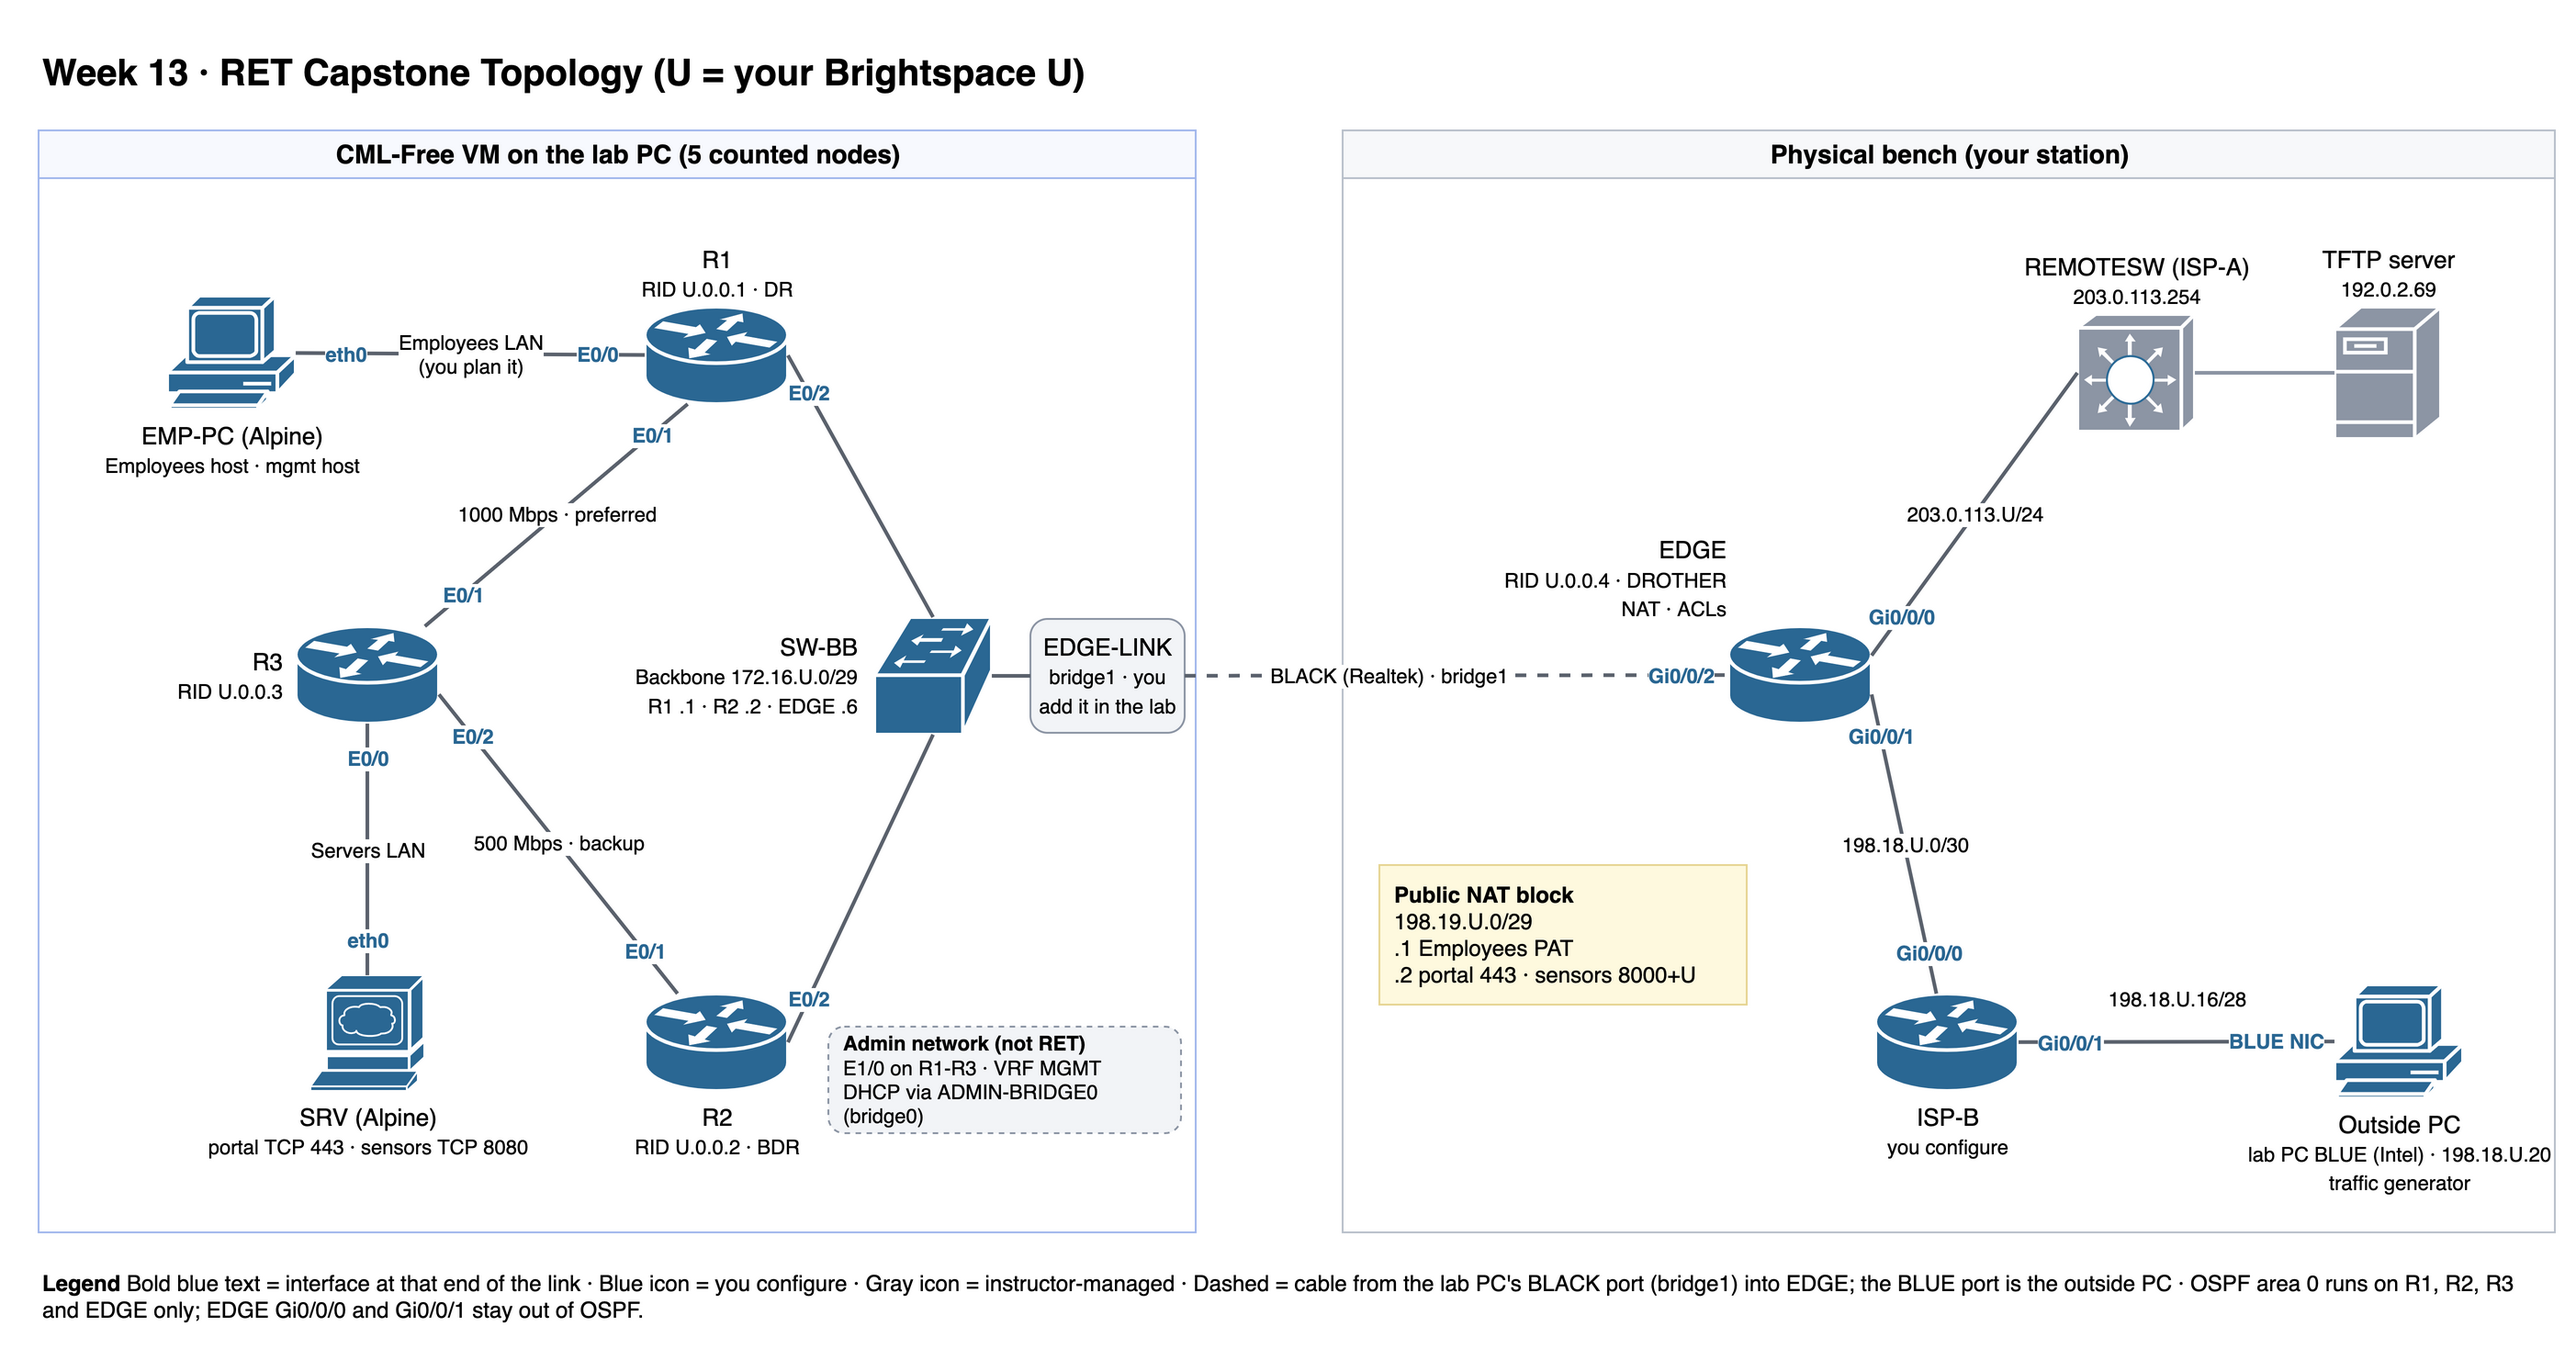
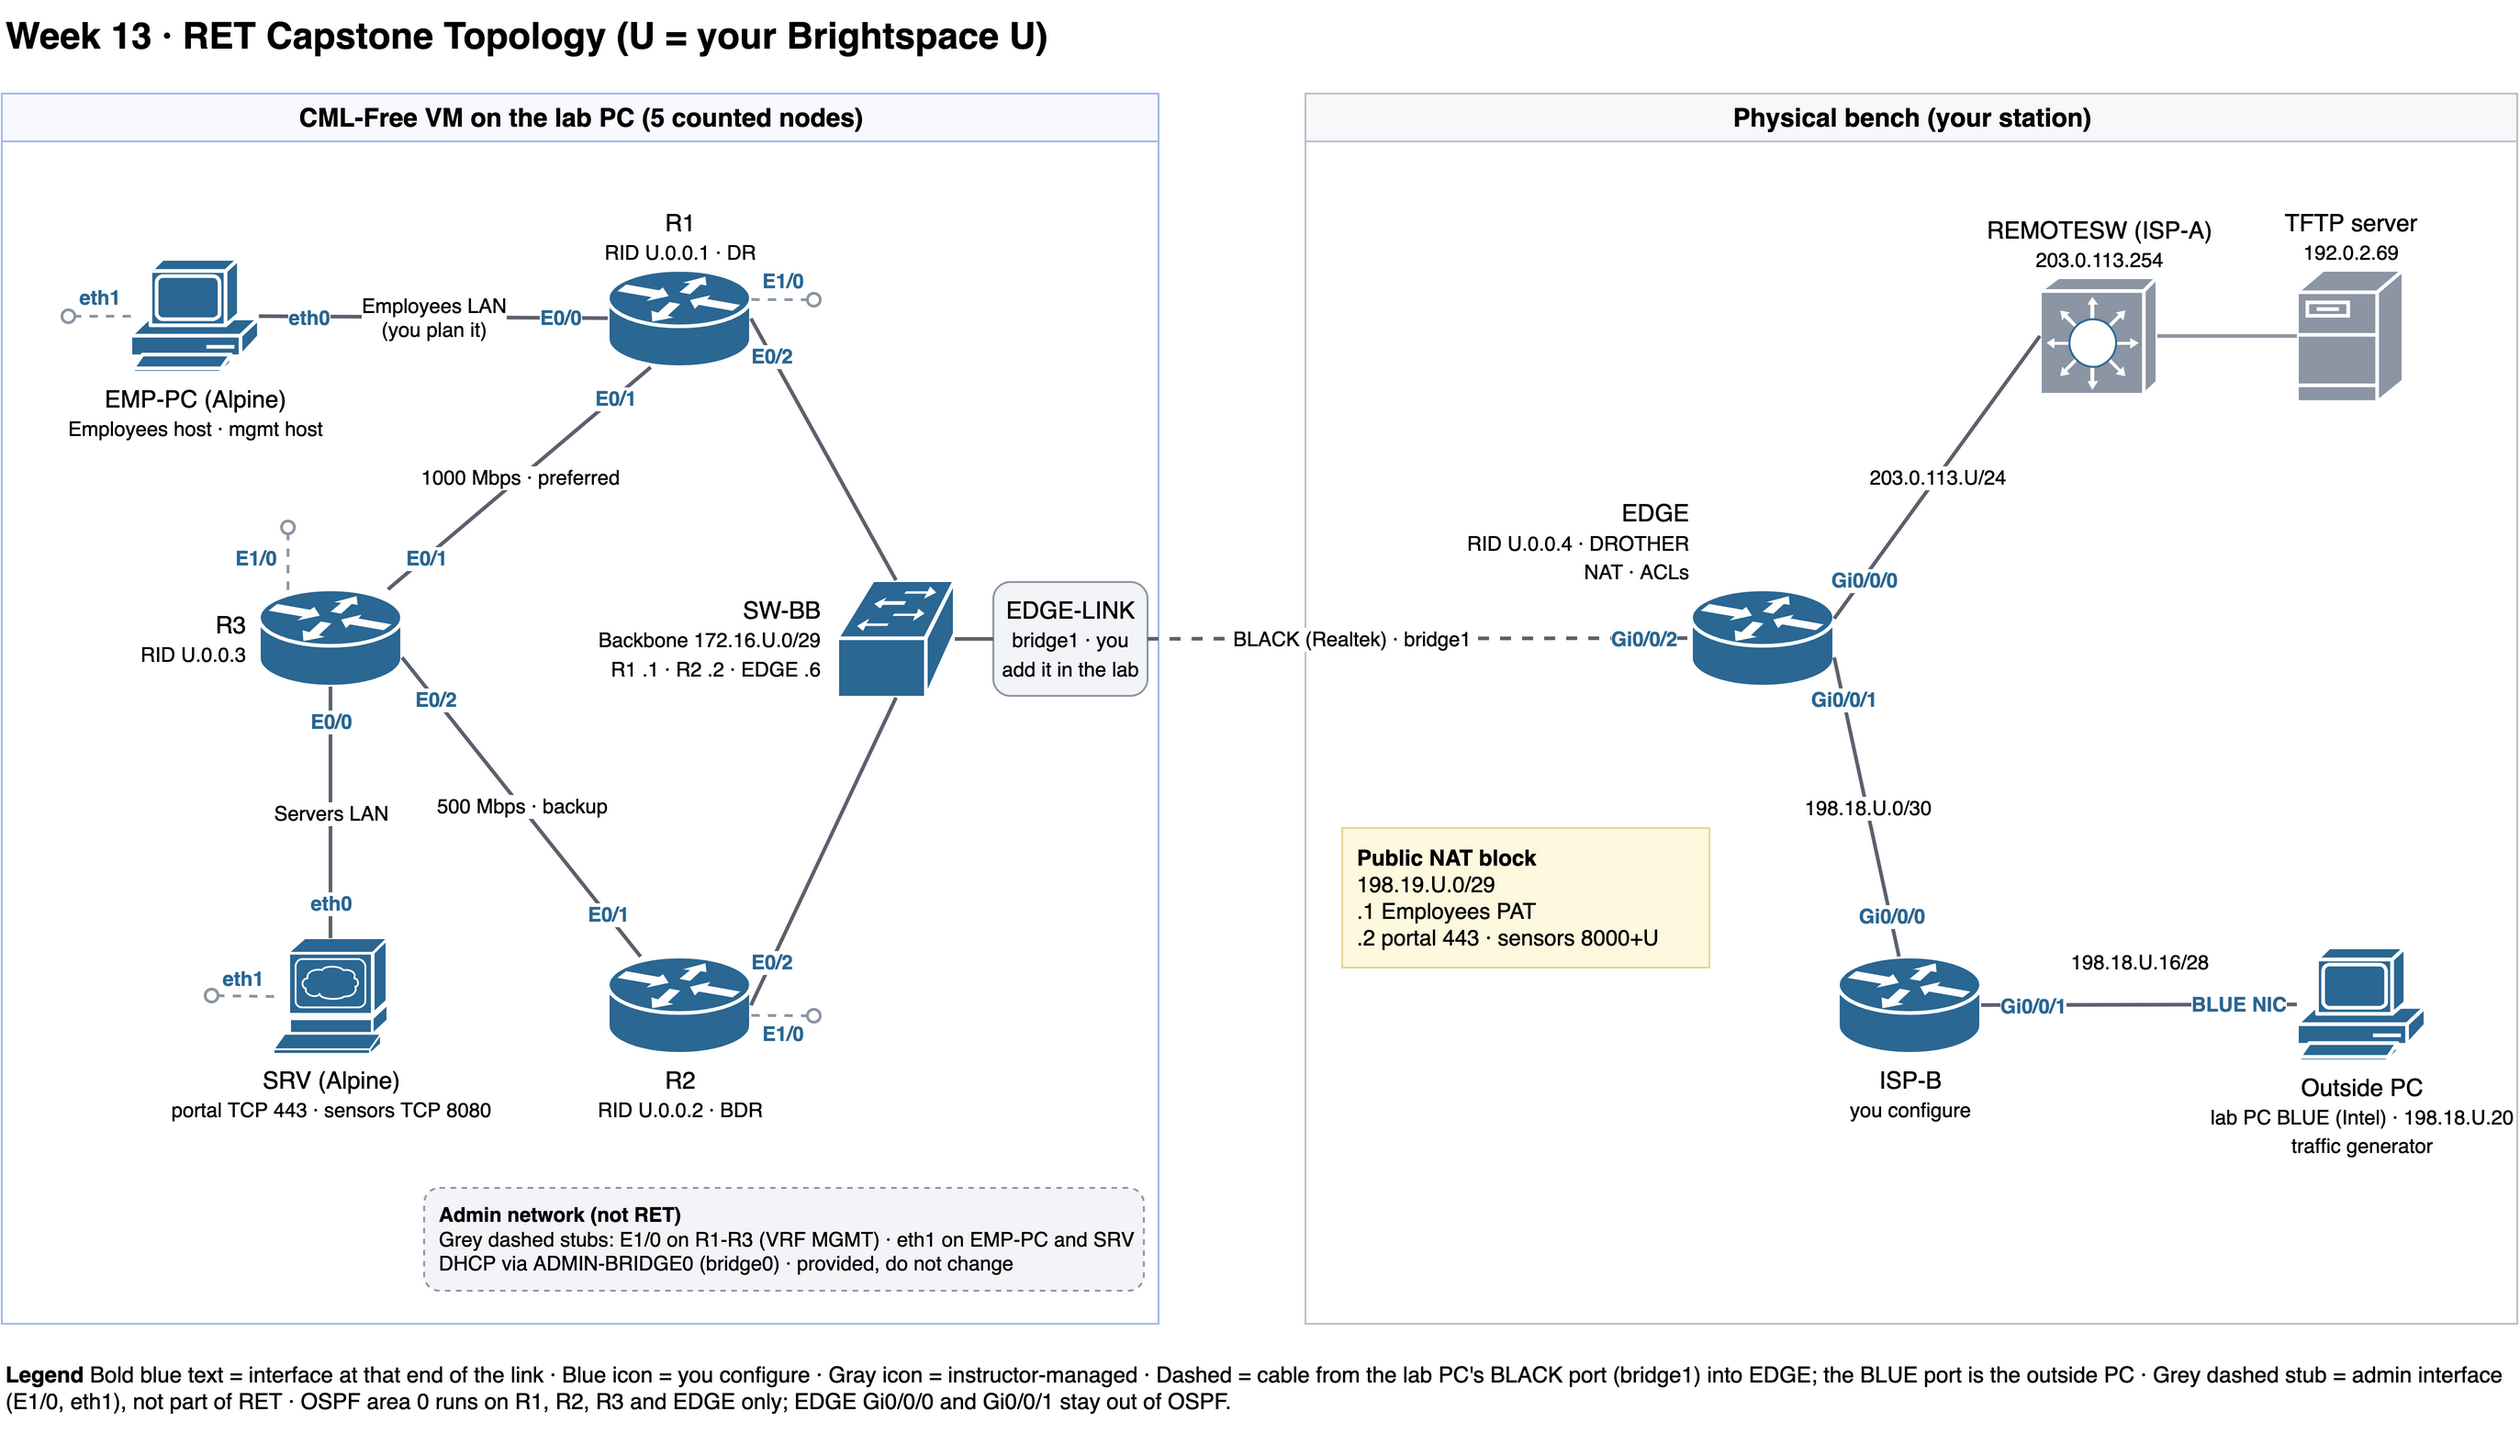
Release(w13): bridge guide in resources, admin stubs on topology

diff --git a/26f-cst8371/resources/l13-bridge-guide.md b/26f-cst8371/resources/l13-bridge-guide.md
@@ -1,0 +1,111 @@
+# Lab 13 - Connect CML to the Physical EDGE (bridge1)
+
+```plaintext
+Environment: lab PC (Windows, VMware Workstation Pro) running the CML-Free VM; physical EDGE router on your bench.
+```
+
+The lab PC has two bench network ports, and each one has a fixed job:
+
+| Port | Windows adapter | Job in this capstone |
+|---|---|---|
+| **BLACK** | Realtek | Bridged into CML as `bridge1`; cabled to EDGE `Gi0/0/2` (this guide) |
+| **BLUE** | Intel | The outside PC; cabled to ISP-B `Gi0/0/1` (Phase 4, P4-R9). **Never bridge it into CML** |
+
+Your CML-Free VM has **one** network adapter. CML uses it for its web interface, and your lab connects to it through the `ADMIN-BRIDGE0` connector (the admin network on `E1/0`). To reach the physical EDGE, the VM needs a **second** adapter, bridged to the lab PC's Ethernet port that is cabled to EDGE. Inside CML, that adapter becomes a new bridge, `bridge1`, and an External Connector in your lab uses it.
+
+**When:** at the lab station, after Phases 1 to 3 and before C00. You do not need any of this at home.
+**Time:** about 20 minutes the first time.
+
+![Lab 13 bridge: from the CML lab to EDGE, layer by layer](../images/l13-bridge-topology.png)
+
+Read the diagram from the top down. The green path is what you build in this guide; each green box carries the number of its step. The grey dashed path is the CML web interface's own network: leave it alone.
+
+> **Do not touch the first adapter.** It carries the CML web interface and `bridge0`. Every step below adds something new; nothing changes what already works.
+
+---
+
+## Before you start
+
+- [ ] Your RET Network lab (`13-RET-capstone.yaml`) is imported in this CML VM and **stopped**.
+- [ ] The cable from the lab PC's **BLACK** port is plugged into EDGE `Gi0/0/2`.
+- [ ] You know the Windows name of the BLACK port's adapter: the **Realtek** one. In PowerShell, `Get-NetAdapter | Format-Table Name, InterfaceDescription, Status` lists it (for example `Ethernet 2`, *Realtek PCIe GbE Family Controller*). Write the name in your lab book. To be sure, unplug the BLACK cable and check that this adapter's status changes to `Disconnected`, then plug it back in.
+- [ ] You can open VMware Workstation's **Virtual Network Editor** with **Change Settings** (administrator). If you cannot, stop and call your instructor.
+
+---
+
+## Step 1 - Create a bridged VMware network for the BLACK port
+
+1. Shut down the CML VM (CML web interface: **Tools > System Administration > Shut down**, or power off from VMware once CML has stopped).
+2. In VMware Workstation: **Edit > Virtual Network Editor > Change Settings**.
+3. Note what `VMnet0` is set to and **leave it alone**.
+4. **Add Network...**, choose `VMnet2` (or the first free VMnet number).
+5. Select the new VMnet, choose **Bridged (connect VMs directly to the external network)**, and set **Bridged to** the **Realtek** adapter. Never choose "Automatic", and never the Intel adapter.
+6. **Apply**, then **OK**.
+
+> If the editor only offers Host-only for the new VMnet, or if no adapter appears in the list, check that **VMware Bridge Protocol** is ticked in the Realtek adapter's Windows properties. If it still fails, call your instructor.
+
+## Step 2 - Give the CML VM a second adapter
+
+1. **VM > Settings > Add... > Network Adapter > Finish**. It appears as **Network Adapter 2**.
+2. Select it and choose **Custom: Specific virtual network**, then `VMnet2`.
+3. Tick **Connected** and **Connect at power on**. **OK**.
+4. Power the VM on and wait until the CML web interface loads again.
+
+**Check:** the CML web interface opens exactly as before. If it does not, you changed the first adapter: undo it.
+
+## Step 3 - Create `bridge1` inside the CML VM
+
+1. Open Cockpit: `https://<CML address>:9090`, and sign in with the CML system administrator account (the one you created when you installed CML).
+2. Go to **Networking**. You see the first interface (in `bridge0`) and a new interface with no bridge (often `ens224` or `ens256`). Write its name in your lab book.
+3. **Add bridge**. Name: `bridge1`. Port: tick the **new** interface only.
+4. Open `bridge1` and set **IPv4: Disabled** and **IPv6: Ignore**. The bridge is a wire; it needs no address.
+5. Check that both the new interface and `bridge1` are **active**. Do not edit `bridge0`.
+6. Restart CML so it registers the bridge: in Cockpit go to **Cisco Modeling Labs > Restart Services** (or reboot the VM).
+
+## Step 4 - Label the bridge in CML
+
+1. CML web interface: **Tools > System Administration > External Connectors**.
+2. Find the row with Device Name `bridge1`. Click its label and change it to `EDGE-LINK`. **Save**.
+3. Leave **Protected** on. It lets IPv4 and ARP through, which is everything OSPF, NAT and ping need.
+
+## Step 5 - Add the connector to your lab
+
+1. Open the RET Network lab (stopped).
+2. Drag an **External Connector** onto the canvas, next to `SW-BB`. Name it `EDGE-LINK`.
+3. In its **Config** tab choose `EDGE-LINK`, **not** "System Bridge" or "NAT".
+4. Link it to a free port on `SW-BB`.
+5. Do **not** change `ADMIN-BRIDGE0`: it stays on System Bridge.
+6. Start the lab.
+
+External Connectors and unmanaged switches do not count toward the 5-node limit.
+
+## Step 6 - Prove it (this is C00 in the brief)
+
+Give R1 and R2 their backbone addresses (`172.16.U.1/29` and `172.16.U.2/29` on `E0/2`) if they do not have them yet, then:
+
+| # | Where | Command | Pass |
+|---|---|---|---|
+| 1 | R1 | `ping 172.16.U.6 repeat 5` | `!!!!!` (repeat once if the first dot is ARP) |
+| 2 | R1 | `show ip arp 172.16.U.6` | EDGE's MAC address on `Ethernet0/2` |
+| 3 | R2 | `ping 172.16.U.6 repeat 5` | `!!!!!` |
+| 4 | Lab PC browser | CML web interface | Still loads |
+
+All four pass: go on to Phase 4. Any fails: use the table below, then call your instructor. A bench or bridge fault found here is handled as an infrastructure fault (see "If you cannot connect to EDGE" in the brief).
+
+---
+
+## When it fails
+
+| Symptom | Look at |
+|---|---|
+| CML web interface gone after Step 1 or 2 | You changed `VMnet0` or the first adapter. Put them back |
+| `bridge1` not in the External Connectors list | CML not restarted after Step 3, or `bridge1` not active in Cockpit |
+| The connector shows the web interface's network | The connector is set to "System Bridge". Choose `EDGE-LINK` |
+| R1 ping to EDGE fails, no ARP entry | Network Adapter 2 not Connected; VMnet2 bridged to the wrong Windows adapter; cable in the wrong EDGE port; EDGE `Gi0/0/2` shut |
+| Ping works, OSPF stuck later in INIT or EXSTART | Timers and MTU (Phase 4 troubleshooting), not the bridge |
+| VMware: "no un-bridged host network adapters" | Automatic bridging has claimed every adapter. Bind VMnet2 to one specific adapter |
+
+## Leaving the station
+
+- Stop your lab and **download** it (your YAML is your work).
+- Leave `bridge1`, VMnet2 and Network Adapter 2 in place unless your instructor says otherwise: the next student on this PC needs the same setup.

diff --git a/26f-cst8371/labs/l13-ret-capstone.md b/26f-cst8371/labs/l13-ret-capstone.md
@@ -42,7 +42,7 @@ Phases 1 to 3 need only CML-Free, so you can do them at home. Phases 4 and 5 nee
    - In CML, extract the configurations of all nodes (select the nodes, then **Extract configurations**), so the routers' running configurations are stored in the lab.
    - EMP-PC and SRV forget anything typed at the shell when they restart. Put their address and default route in each node's **Config** tab (`node.cfg`); the file has a marked place for them.
    - **Download** the lab and keep the YAML file, for example as `13-RET-capstone-<username>.yaml`.
-4. **In the lab:** import your YAML into the lab PC's CML, start it, and check that your configurations are there. Then follow `13-RET-capstone-bridge-guide.md` (C00) and continue with Phase 4.
+4. **In the lab:** import your YAML into the lab PC's CML, start it, and check that your configurations are there. Then follow the [bridge guide](../resources/l13-bridge-guide.md) (C00) and continue with Phase 4.
 
 ### The admin network (E1/0)
 
@@ -386,7 +386,7 @@ The bridge is the riskiest part of this capstone. Prove it in your first 20 minu
   - nothing else yet: no routes, no OSPF, no NAT, no ACLs (those are Phases 4 and 5).
 - [ ] **C00-R2** ISP-B base, on the console: hostname `ISP-B`, the same user and enable secret. Its addressing and route come in Phase 4 (P4-R8).
 - [ ] Your lab file is imported into the lab PC's CML and your Phase 1 to 3 configurations are present.
-- [ ] You followed `13-RET-capstone-bridge-guide.md`: VMnet2, Network Adapter 2, `bridge1`, the `EDGE-LINK` label, and the `EDGE-LINK` External Connector linked to `SW-BB`.
+- [ ] You followed the [bridge guide](../resources/l13-bridge-guide.md): VMnet2, Network Adapter 2, `bridge1`, the `EDGE-LINK` label, and the `EDGE-LINK` External Connector linked to `SW-BB`.
 - [ ] The lab PC's **BLACK** (Realtek) port is cabled to EDGE `Gi0/0/2`, and its **BLUE** (Intel) port to ISP-B `Gi0/0/1`.
 
 | # | Device | Command | Required result |
@@ -601,15 +601,7 @@ show ip interface brief
 
 ### Traffic generator
 
-Your `l13.zip` package contains two versions of the traffic generator. They send the same traffic, use the same token and print the same summary. Run the one that matches the outside host.
-
-**macOS, Linux or Alpine** (Python 3, standard library only; on Alpine, `apk add python3` first):
-
-```bash
-python3 ret-gen.py --username <username> --u <U>
-```
-
-**Windows**, in the same PowerShell window you use for the lab:
+Your `l13.zip` package contains the traffic generator, `ret-gen.ps1`. Run it on the outside PC, in the same PowerShell window you use for the lab:
 
 ```powershell
 .\ret-gen.ps1 -Username <username> -U <U>
